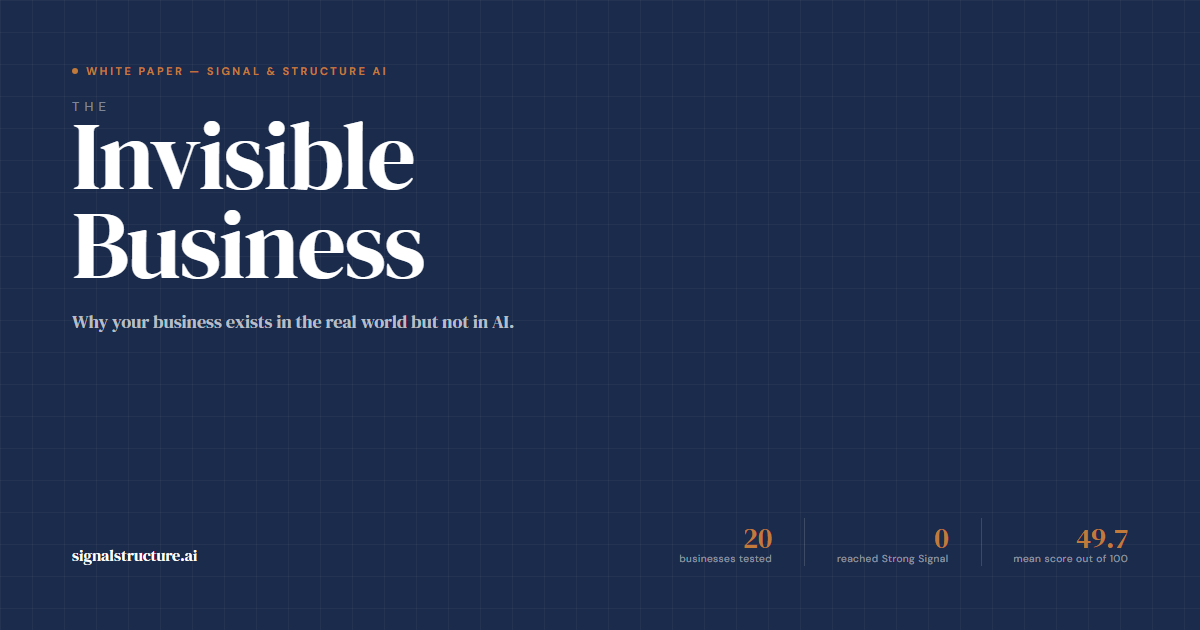
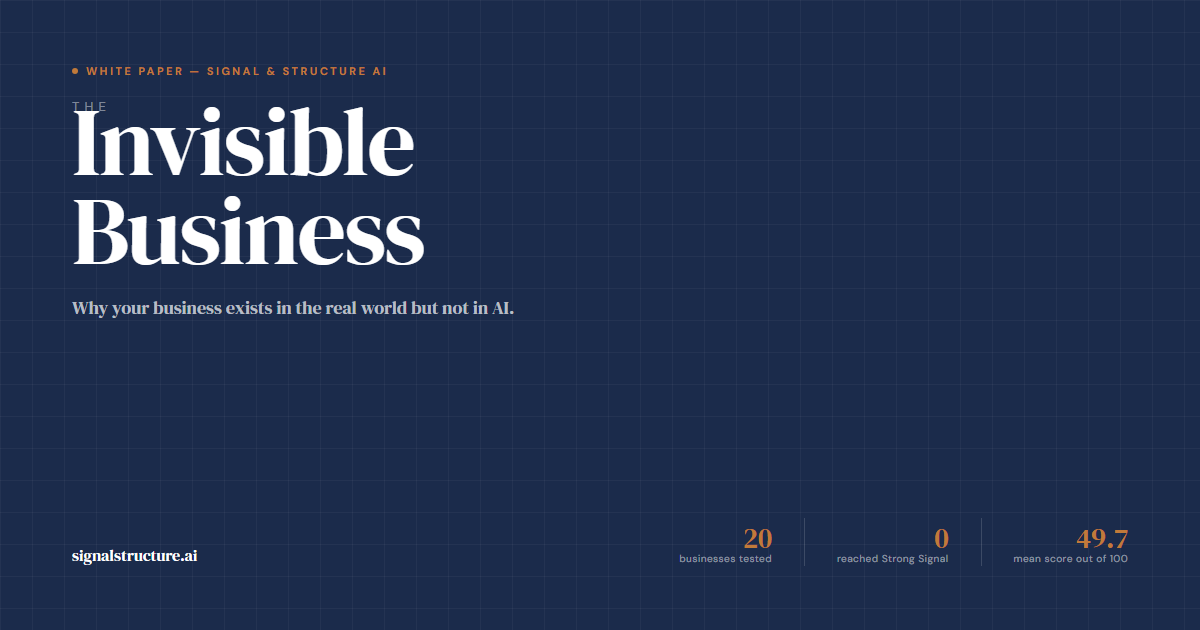
Tighten THE-to-title spacing in white paper OG image

Changed region(s): [[0.0617, 0.1508, 0.37, 0.4524], [0.0617, 0.4825, 0.4317, 0.5429]]

diff --git a/scripts/render_og_image.py b/scripts/render_og_image.py
@@ -66,7 +66,7 @@ HTML = """<!doctype html>
     letter-spacing: 0.4em;
     text-transform: uppercase;
     color: rgba(255,255,255,0.45);
-    margin-bottom: -4px;
+    margin-bottom: -18px;
   }
   h1 {
     font-family: 'DM Serif Display', Georgia, serif;